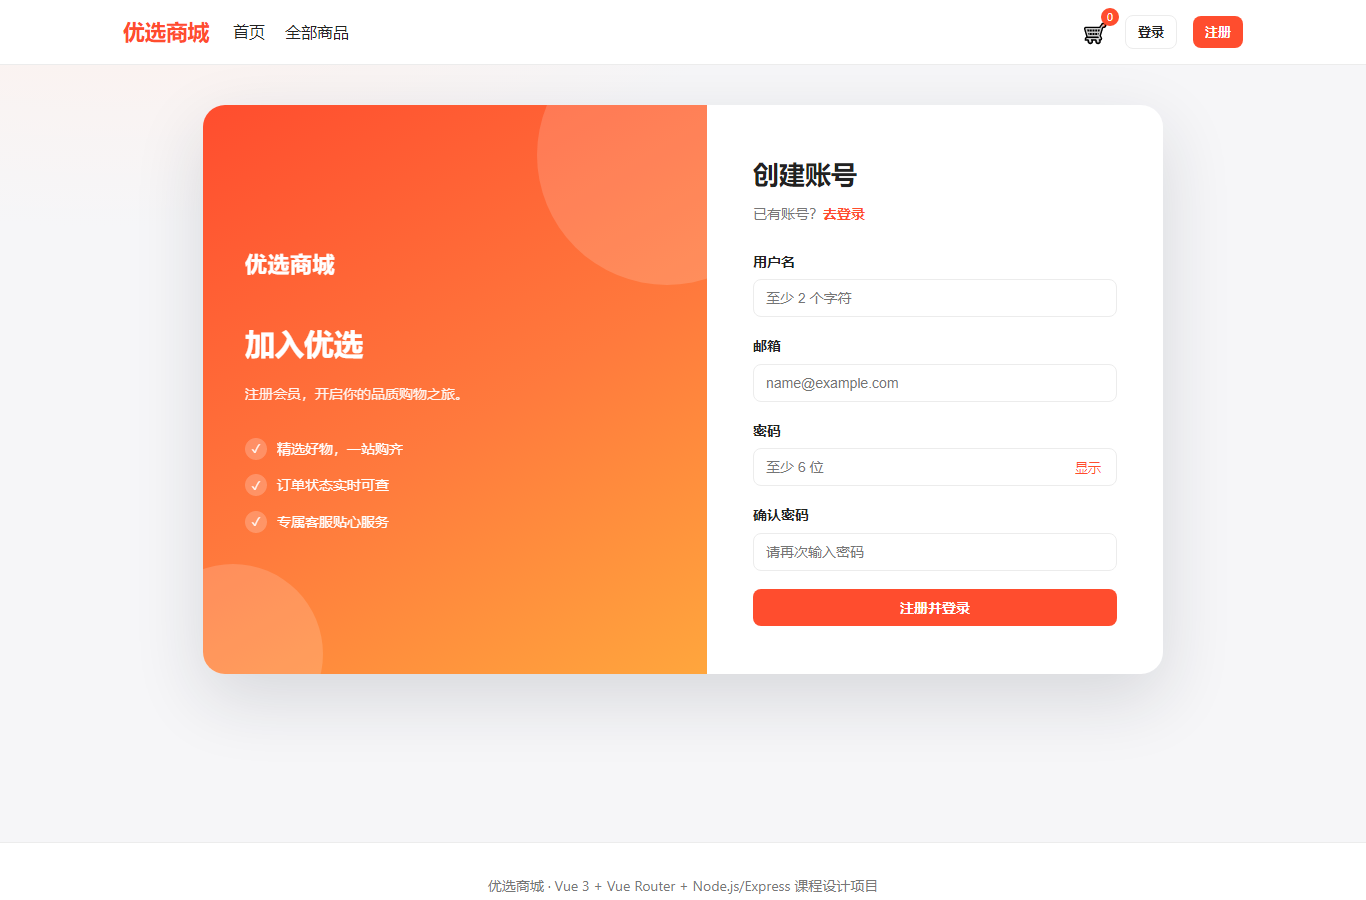
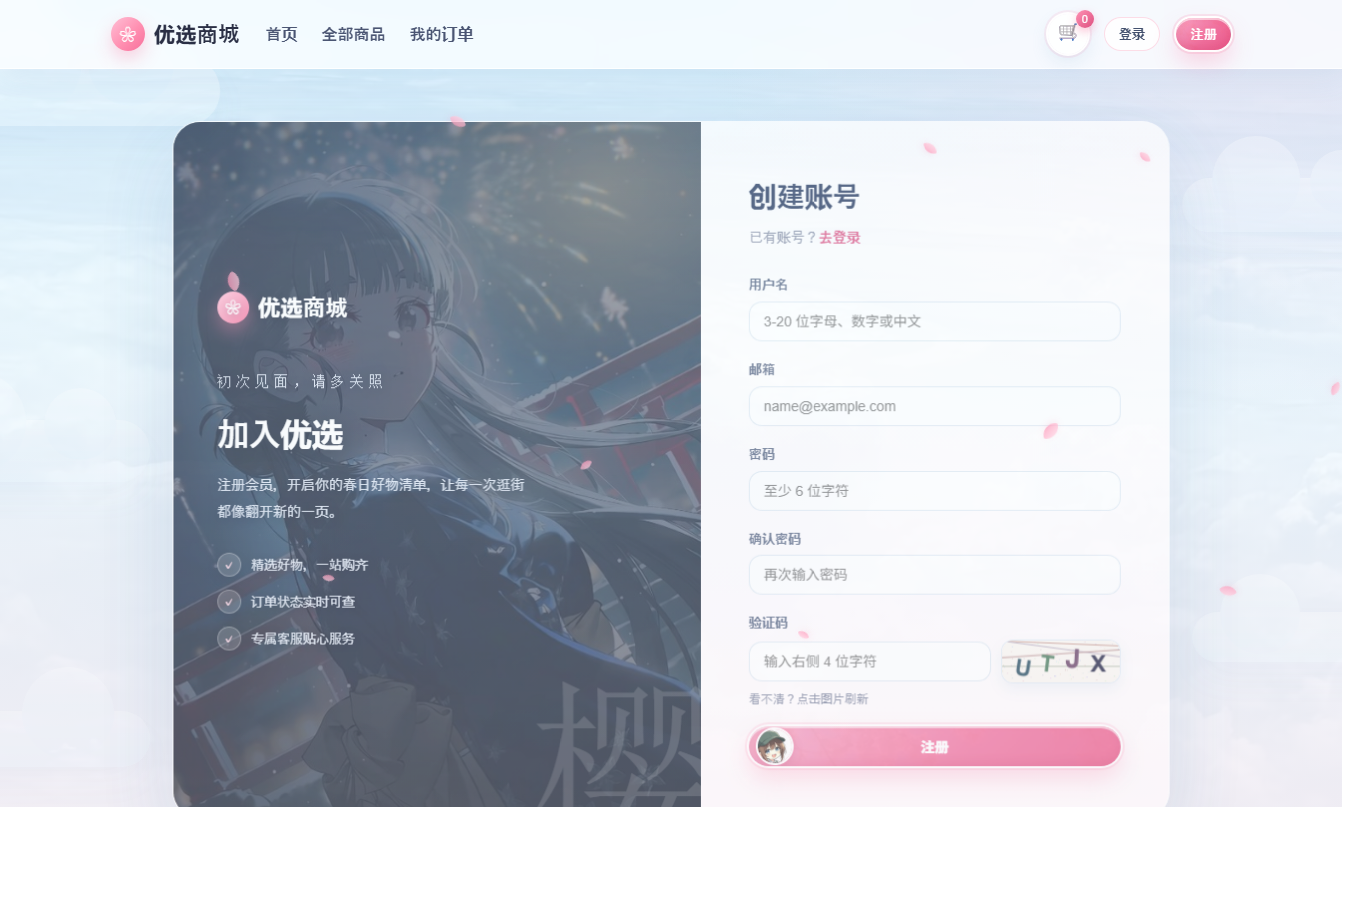
docs: 更新日漫主题界面截图
重新采集首页、商品列表、详情、购物车、登录注册、结算、订单与后台页面截图，补充订单与后台商品/订单预览；截图使用临时演示数据，后台收货信息已脱敏。

diff --git a/docs/screenshots/README.md b/docs/screenshots/README.md
@@ -1,33 +1,31 @@
 # 截图采集说明
 
-项目 README 引用了 `docs/screenshots/` 下的截图。由于图片需在浏览器中实机截取，请按以下步骤在本地补全（每个页面各一张即可）。
+README 中的截图位于 `docs/screenshots/`，统一为 **1366 × 900 PNG**，均为当前日漫天空樱花主题的实际运行效果。
 
-## 启动项目
+## 截图清单
 
-```bash
-cd shopping-site
-npm install
-npm start
-```
-
-浏览器访问 <http://localhost:3000>。
-
-## 待截取的页面清单
-
-| 文件名 | 页面 | 说明 |
+| 文件名 | 页面 | 来源 |
 | --- | --- | --- |
-| `home.png` | 首页 `/` | 顶部横幅 + 最新上架商品网格 |
-| `products.png` | 商品列表 `/products` | 分类标签 + 搜索排序栏 + 商品网格 |
-| `detail.png` | 商品详情 `/products/<id>` | 左侧商品图 + 右侧信息与加购按钮 |
-| `cart.png` | 购物车 `/cart` | 先加几件商品，展示购物车条目与订单摘要 |
-| `checkout.png` | 结算 `/checkout` | 需先登录，展示收货表单与商品清单 |
-| `orders.png` | 我的订单 `/orders` | 提交订单后展示订单列表 |
-| `admin.png` | 后台仪表盘 `/admin` | 用 admin / admin123 登录后访问 |
+| `home.png` | 首页 | PHP 版 `index.php` |
+| `products.png` | 商品列表 | Node.js 版 `/products` |
+| `detail.png` | 商品详情 | PHP 版 `product.php?id=1` |
+| `cart.png` | 购物车 | PHP 版，演示账号 + 购物车数据 |
+| `checkout.png` | 结算 | PHP 版，演示收货信息 |
+| `orders.png` | 我的订单 | PHP 版，演示订单 |
+| `order-detail.png` | 订单详情 | PHP 版，演示订单 |
+| `login.png` | 登录 | PHP 版 `login.php` |
+| `register.png` | 注册 | PHP 版 `register.php` |
+| `admin.png` | 后台仪表盘 | PHP 版 `admin/index.php` |
+| `admin-products.png` | 后台商品管理 | PHP 版 `admin/products.php` |
+| `admin-orders.png` | 后台订单管理 | PHP 版 `admin/orders.php` |
 
-## 建议
+## 重新采集
 
-- 使用浏览器开发者工具（F12）将视口宽度设为 1280px 左右，保证布局一致。
-- 截图保存为 PNG，直接覆盖到 `docs/screenshots/` 目录，保持上述文件名即可。
-- Windows 可用 `Win + Shift + S`，macOS 用 `Cmd + Shift + 4`。
+1. 启动 PHP 版：`php -S 127.0.0.1:8080 -t php`
+2. 启动 Node.js 版：`npm start`（商品列表截图使用）
+3. 浏览器视口设为 **1366 × 900**，隐藏滚动条。
+4. 购物车、结算、订单与后台页面需要登录；建议使用临时演示账号和演示订单，避免暴露真实用户信息。
+5. 后台订单截图中的收货人、手机号、订单号应替换为演示数据。
+6. 截图完成后删除临时账号与订单，保持数据库干净。
 
-> 提示：也可用 Playwright/Puppeteer 等工具自动截图，但手动截取对演示项目已足够。
+> 可用 Playwright / Puppeteer / Edge Headless 等工具批量截图，再覆盖到本目录。

diff --git a/README.md b/README.md
@@ -94,7 +94,7 @@
 
 ## 📸 界面预览
 
-> 当前两套前端均已切换为日漫天空樱花主题；下列截图为功能页面示例，最新效果以实际运行为准。
+> 以下截图为当前日漫天空樱花主题的实际运行效果。
 
 | 首页 | 商品列表 |
 | --- | --- |
@@ -111,6 +111,14 @@
 | 结算 | 后台仪表盘 |
 | --- | --- |
 | ![结算](docs/screenshots/checkout.png) | ![后台仪表盘](docs/screenshots/admin.png) |
+
+| 我的订单 | 订单详情 |
+| --- | --- |
+| ![我的订单](docs/screenshots/orders.png) | ![订单详情](docs/screenshots/order-detail.png) |
+
+| 后台商品管理 | 后台订单管理 |
+| --- | --- |
+| ![后台商品管理](docs/screenshots/admin-products.png) | ![后台订单管理](docs/screenshots/admin-orders.png) |
 
 ## 🚀 快速开始
 
